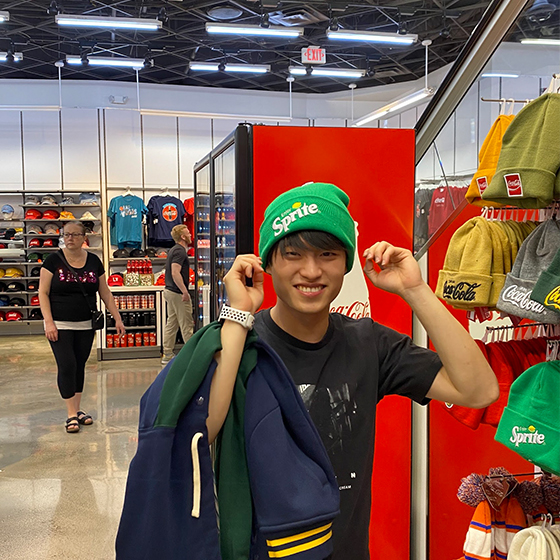
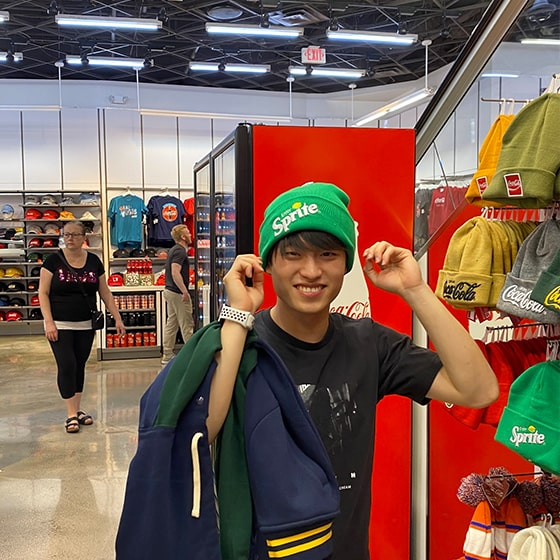
Enhance image loading performance by adding loading and decoding attributes; update error handling for responsive images

diff --git a/_includes/figure.html b/_includes/figure.html
@@ -26,7 +26,9 @@
       {% if include.alt %}alt="{{ include.alt }}"{% endif %}
       {% if include.title %}title="{{ include.title }}"{% endif %}
       {% if include.zoomable %}data-zoomable{% endif %}
-      onerror="this.onerror=null; $('.responsive-img-srcset').remove();"
+      loading="eager"
+      decoding="async"
+      onerror="this.onerror=null; this.src='{{ include.path | relative_url }}';"
     />
   </picture>
 
